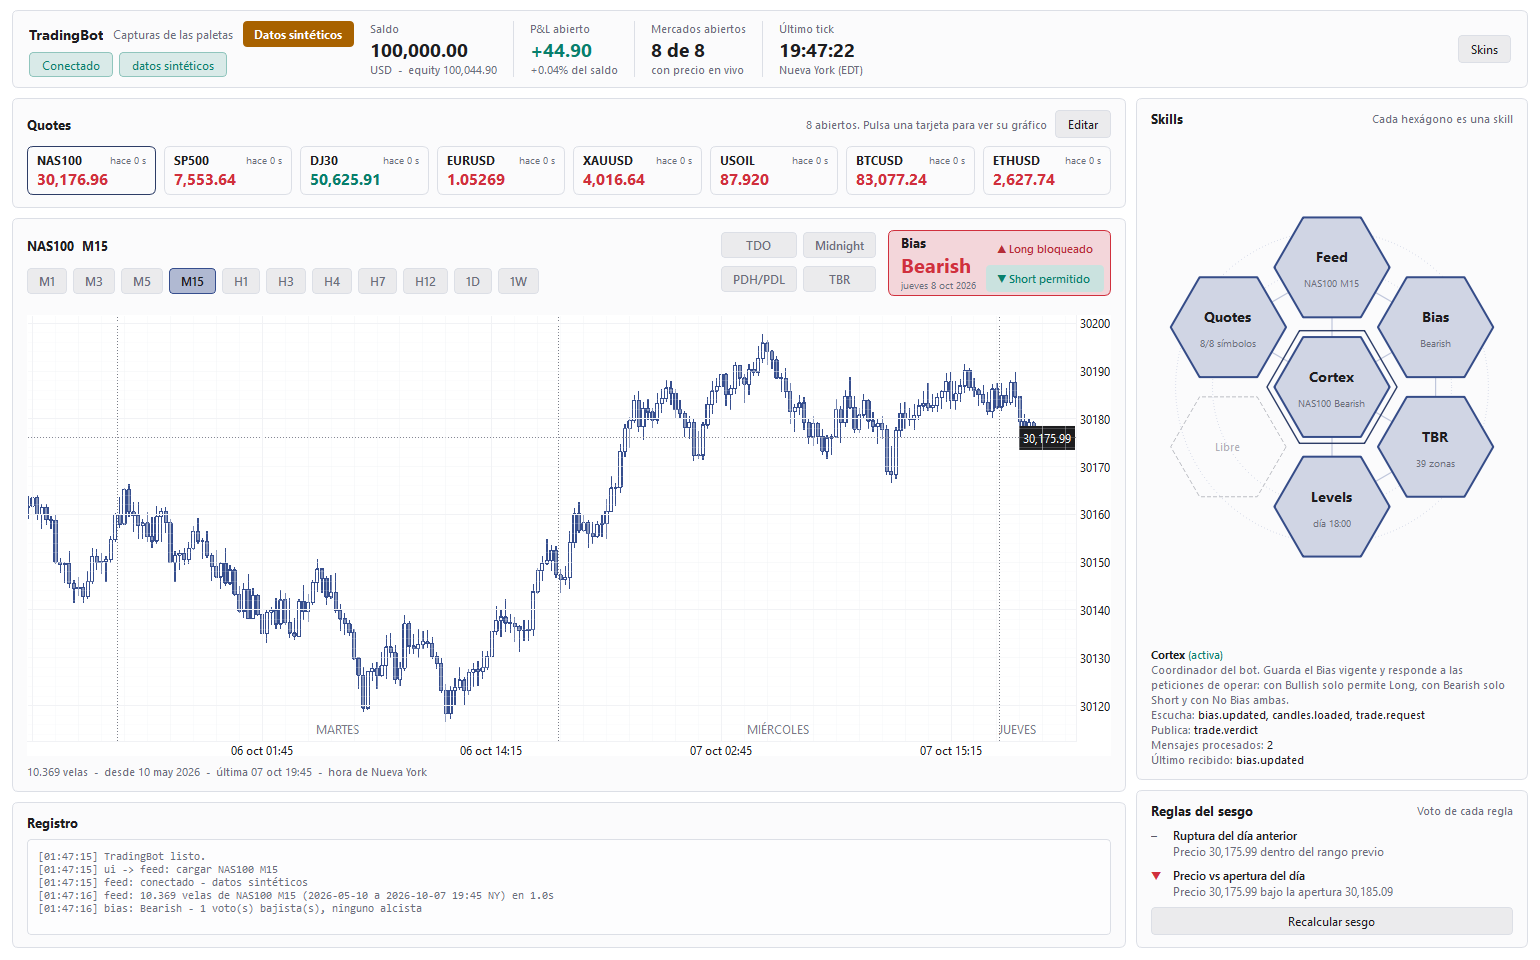
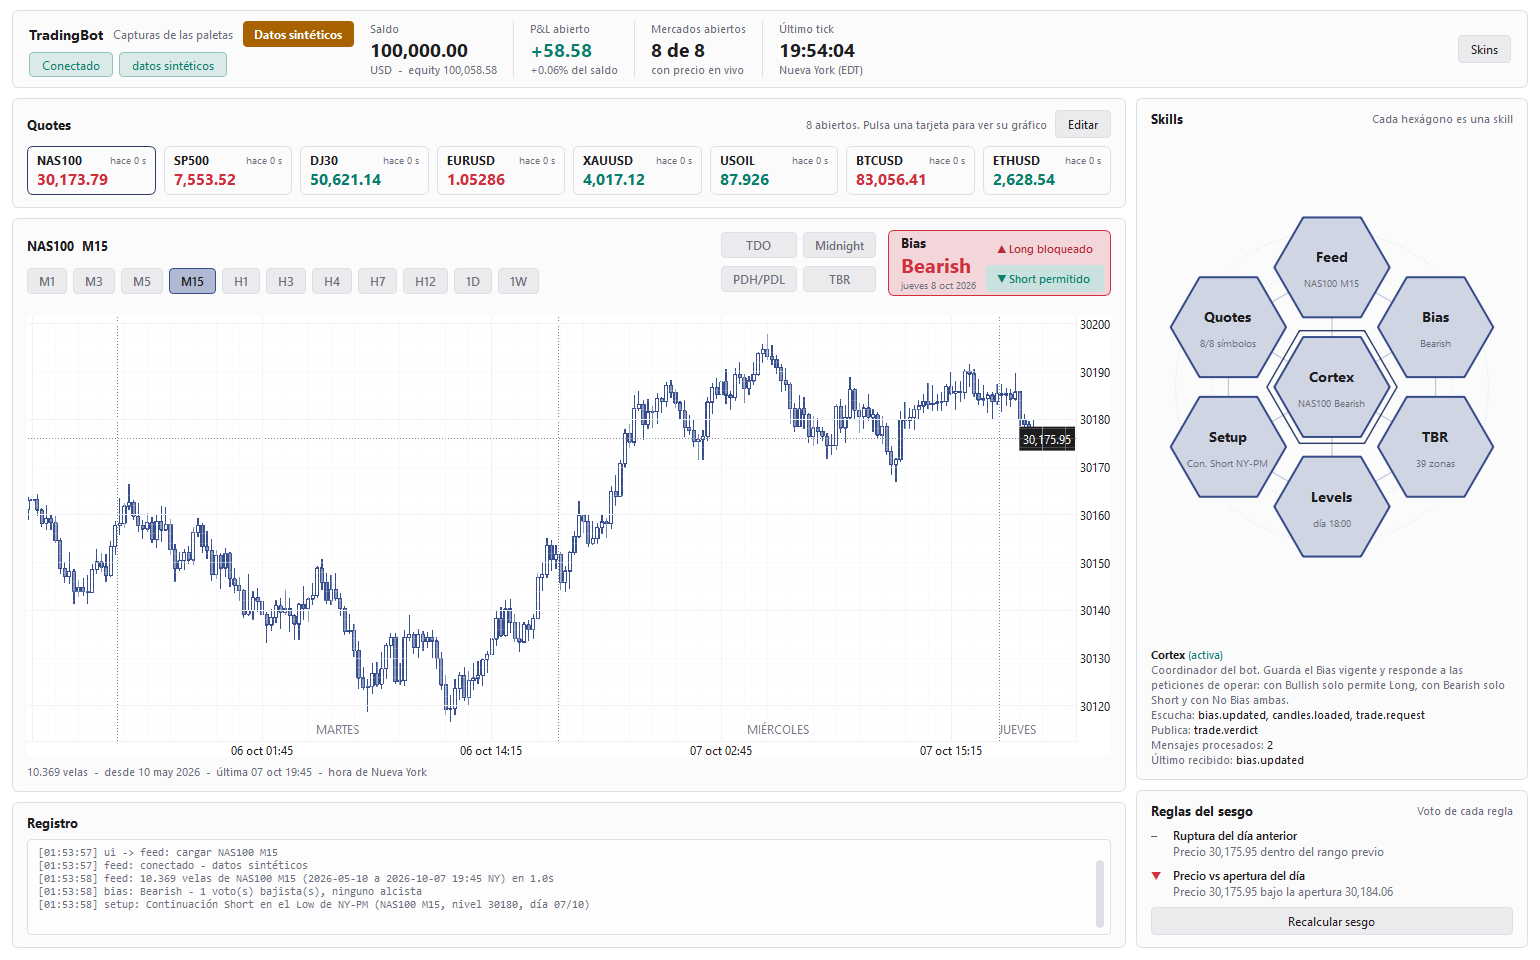
Nueva skill Setup: continuaciones o reversiones tras tomar la liquidez del High/Low de las TBR
Carpeta tradingbot/skills/setup (skill.py, setups.py), hexágono 4, bloque SETUP en
tradingbot.env (SETUP_CONFIRM_BARS, SETUP_ZONES, SETUP_TYPES) y aviso en el Registro.
Solo informa: no envía órdenes.

diff --git a/tradingbot/skills/setup/setups.py b/tradingbot/skills/setup/setups.py
@@ -1,0 +1,90 @@
+"""Setups de la estrategia: tomas de liquidez en el High o el Low de las zonas TBR.
+
+Cuando termina una zona TBR (Asia, London, NY-AM...), su High y su Low quedan como liquidez: encima del High hay stops
+de cortos y debajo del Low, stops de largos. La primera vela que supera uno de esos niveles lo "toma" (la skill TBR ya
+marca cuál es). A partir de esa vela se esperan `confirm_bars` velas (contando la de la toma) y se mira dónde cierra la
+última de ellas:
+
+- Toma del High y cierre POR ENCIMA del High   -> continuación alcista (Long): el precio acepta por encima.
+- Toma del High y cierre DE VUELTA por debajo  -> reversión bajista (Short): barrido de liquidez y rechazo.
+- Toma del Low  y cierre POR DEBAJO del Low    -> continuación bajista (Short).
+- Toma del Low  y cierre DE VUELTA por encima  -> reversión alcista (Long).
+
+Mientras no hayan cerrado las velas de confirmación, el setup está "pendiente" (sin dirección).
+Es la primera versión de la estrategia: aquí se irán añadiendo los filtros (sesgo, TDO, horario...).
+El bot NO envía órdenes: los setups solo se publican e informan.
+"""
+from __future__ import annotations
+
+from dataclasses import dataclass
+from datetime import date
+
+import numpy as np
+
+
+# Valores por defecto (se cambian en tradingbot.env, bloque SETUP)
+DEFAULT_CONFIRM_BARS = 3
+KINDS = ("reversal", "continuation")
+DEFAULT_KINDS = KINDS
+KIND_NAMES = {"reversal": "Reversión", "continuation": "Continuación", "pending": "Pendiente"}
+
+
+@dataclass(frozen=True)
+class Setup:
+    zone: str            # nombre de la zona TBR (p. ej. "NY-AM")
+    zone_key: str        # clave de la zona (p. ej. "NY_AM")
+    day: date            # día (hora de NY) en que empezó la zona
+    side: str            # liquidez tomada: "high" o "low"
+    level: float         # precio del nivel tomado
+    sweep_x: int         # vela (índice) que toma el nivel
+    kind: str            # "reversal", "continuation" o "pending"
+    direction: str | None   # "long", "short" o None mientras está pendiente
+    confirm_x: int | None   # vela que confirma (cierre de la última vela de confirmación)
+
+    @property
+    def label(self) -> str:
+        """Texto corto, p. ej. "Reversión Short en el High de NY-AM"."""
+        where = f"el {'High' if self.side == 'high' else 'Low'} de {self.zone}"
+        if self.direction is None:
+            return f"Toma de liquidez en {where} (pendiente)"
+        return f"{KIND_NAMES[self.kind]} {self.direction.capitalize()} en {where}"
+
+
+def classify(side: str, level: float, close: float) -> tuple[str, str]:
+    """(tipo, dirección) según dónde cierra la vela de confirmación respecto al nivel tomado."""
+    if side == "high":
+        return ("continuation", "long") if close > level else ("reversal", "short")
+    return ("continuation", "short") if close < level else ("reversal", "long")
+
+
+def detect(sessions, close, confirm_bars: int = DEFAULT_CONFIRM_BARS, zones: list[str] | None = None,
+           kinds=DEFAULT_KINDS) -> list[Setup]:
+    """Setups de las zonas TBR ya calculadas (tradingbot.skills.tbr.zones.Session), ordenados por vela de la toma.
+
+    `close` son los cierres de las mismas velas con las que se calcularon las zonas. `zones`: claves de zona a vigilar
+    (None = todas). `kinds`: tipos que interesan; los pendientes siempre se incluyen.
+    """
+    close = np.asarray(close, dtype=float)
+    n = len(close)
+    wanted = {z.upper() for z in zones} if zones else None
+    out: list[Setup] = []
+    for s in sessions:
+        if not s.complete or (wanted is not None and s.zone.key not in wanted):
+            continue
+        for level in s.levels:
+            if level.kind not in ("high", "low") or not level.taken:
+                continue
+            i = int(round(level.x1))
+            if not 0 <= i < n:
+                continue
+            j = i + confirm_bars - 1
+            if j >= n:
+                kind, direction, confirm_x = "pending", None, None
+            else:
+                kind, direction = classify(level.kind, level.price, float(close[j]))
+                confirm_x = j
+                if kind not in kinds:
+                    continue
+            out.append(Setup(s.zone.name, s.zone.key, s.day, level.kind, level.price, i, kind, direction, confirm_x))
+    out.sort(key=lambda st: (st.sweep_x, st.side))
+    return out

diff --git a/tests/test_setup.py b/tests/test_setup.py
@@ -1,0 +1,87 @@
+"""Skill Setup: continuaciones y reversiones tras tomar la liquidez del High / Low de las zonas TBR."""
+import os
+
+os.environ.setdefault("QT_QPA_PLATFORM", "offscreen")
+
+import time
+
+import numpy as np
+import pandas as pd
+
+from tradingbot.envconfig import EnvConfig, parse
+from tradingbot.skills.setup.setups import classify, detect
+from tradingbot.skills.tbr.zones import Zone, compute
+
+from tests.test_tbr import AHEAD, candles
+
+# Zona 10:00-11:00 (velas 0-3): High 105, Low 95. Después, la vela 4 toma el High (106).
+HIGHS = [101, 105, 102, 101, 106, 104, 103, 102]
+LOWS = [99, 98, 95, 99, 101, 100, 99, 98]
+
+
+def sessions():
+    ts, high, low = candles(10, 8, highs=HIGHS, lows=LOWS)
+    return compute(ts, high, low, [Zone("NY_AM", "NY-AM", 600, 660, "#00C853")], AHEAD, 15, days=1)
+
+
+def test_clasificacion_segun_el_cierre_de_confirmacion():
+    assert classify("high", 105, 106) == ("continuation", "long")
+    assert classify("high", 105, 104) == ("reversal", "short")
+    assert classify("low", 95, 94) == ("continuation", "short")
+    assert classify("low", 95, 96) == ("reversal", "long")
+
+
+def test_reversion_tras_barrer_el_high():
+    close = [100, 104, 100, 100, 105.5, 103, 102, 101]     # toma en la 4; la 6 (3.ª vela) cierra dentro
+    [s] = detect(sessions(), close, confirm_bars=3)
+    assert (s.side, s.level, s.sweep_x, s.confirm_x) == ("high", 105, 4, 6)
+    assert (s.kind, s.direction) == ("reversal", "short")
+    assert s.label == "Reversión Short en el High de NY-AM"
+
+
+def test_continuacion_y_pendiente():
+    close = [100, 104, 100, 100, 105.5, 105.8, 106, 101]
+    [s] = detect(sessions(), close, confirm_bars=2)         # la 5 cierra por encima de 105
+    assert (s.kind, s.direction, s.confirm_x) == ("continuation", "long", 5)
+    [p] = detect(sessions(), close, confirm_bars=5)         # aún no han cerrado 5 velas desde la toma
+    assert (p.kind, p.direction) == ("pending", None) and "pendiente" in p.label
+
+
+def test_filtros_de_zonas_y_tipos():
+    close = [100, 104, 100, 100, 105.5, 103, 102, 101]
+    assert detect(sessions(), close, 3, zones=["LONDON"]) == []
+    assert detect(sessions(), close, 3, zones=["ny_am"]) != []
+    assert detect(sessions(), close, 3, kinds=("continuation",)) == []
+
+
+def run_skill(env_text):
+    from tradingbot.core import EventBus, Services, SkillManager
+    import tradingbot.skills  # noqa: F401
+    bus, events = EventBus(), []
+    bus.subscribe("t", "setup.updated", events.append)
+    manager = SkillManager(bus, Services(None, None, {"app": {}}, EnvConfig(parse(env_text))),
+                           [{"type": "tbr"}, {"type": "setup"}])
+    manager.start()
+    ts, high, low = candles(10, 8, highs=HIGHS, lows=LOWS)
+    df = pd.DataFrame({"ts": ts, "high": high, "low": low,
+                       "close": np.array([100, 104, 100, 100, 105.5, 103, 102, 101], dtype=float)})
+    bus.publish("candles.loaded", {"symbol": "EURUSD", "timeframe": "15m", "df": df}, source="feed")
+    deadline = time.time() + 3
+    while not events and time.time() < deadline:
+        time.sleep(0.02)
+    manager.stop()
+    return manager.skills["setup"], events
+
+
+def test_la_skill_publica_los_setups_de_las_zonas_tbr():
+    skill, events = run_skill("TBR_ZONES=ny_am\nTBR_NY_AM_HOURS=10:00-11:00\nTBR_DAYS=1\n")
+    p = events[-1].payload
+    assert p["symbol"] == "EURUSD" and p["confirm_bars"] == 3
+    assert p["last"].label == "Reversión Short en el High de NY-AM"
+
+
+def test_la_skill_rechaza_valores_no_validos():
+    skill, events = run_skill("SETUP_CONFIRM_BARS=0\n")
+    assert skill.state.value == "error" and "SETUP_CONFIRM_BARS" in skill.note and not events
+    skill, events = run_skill("SETUP_TYPES=breakout\n")
+    assert skill.state.value == "error" and "SETUP_TYPES" in skill.note

diff --git a/tradingbot/skills/setup/skill.py b/tradingbot/skills/setup/skill.py
@@ -1,0 +1,67 @@
+"""Skill Setup: la estrategia de trading sobre las tomas de liquidez de las zonas TBR."""
+from __future__ import annotations
+
+from ...core import Event, Skill, register_skill
+from .setups import DEFAULT_CONFIRM_BARS, DEFAULT_KINDS, KINDS, detect
+
+
+@register_skill("setup")
+class SetupSkill(Skill):
+    title = "Setup"
+    description = ("La estrategia de trading: cuando el precio toma la liquidez del High o del Low de una zona TBR, "
+                   "decide si es una continuación (cierra más allá del nivel) o una reversión (cierra de vuelta "
+                   "dentro). Solo informa: no envía órdenes.")
+    subscribes = ("candles.loaded", "tbr.updated")
+    publishes = ("setup.updated",)
+    slot = 4
+
+    def on_start(self) -> None:
+        self.error = "Configuración SETUP no válida"   # con la configuración mal, el hexágono queda en rojo con el motivo
+        self._candles: dict | None = None
+        self._tbr: dict | None = None
+        try:
+            self._load_settings()
+        except ValueError as exc:
+            self.error = str(exc)
+            raise
+        self.error = ""
+        self.set_caption("esperando TBR")
+
+    def _load_settings(self) -> None:
+        # tradingbot.env, bloque SETUP
+        self.confirm_bars = self.settings.get_int("CONFIRM_BARS", DEFAULT_CONFIRM_BARS)
+        if self.confirm_bars < 1:
+            raise ValueError(f"SETUP_CONFIRM_BARS={self.confirm_bars} debe ser 1 o más.")
+        self.zones = [z.upper() for z in self.settings.get_list("ZONES", [])] or None   # vacío: todas las zonas TBR
+        self.kinds = tuple(k.lower() for k in self.settings.get_list("TYPES", list(DEFAULT_KINDS)))
+        unknown = [k for k in self.kinds if k not in KINDS]
+        if unknown or not self.kinds:
+            raise ValueError(f"SETUP_TYPES={', '.join(self.kinds) or 'vacío'}: usa reversal, continuation o ambos.")
+
+    def handle(self, event: Event) -> None:
+        if self.error:
+            raise ValueError(self.error)
+        if event.topic == "candles.loaded":
+            self._candles = event.payload
+        else:
+            self._tbr = event.payload
+        c, t = self._candles, self._tbr
+        if c is None or t is None or (c["symbol"], c["timeframe"]) != (t["symbol"], t["timeframe"]):
+            return                                      # aún no han llegado las zonas de estas velas
+        self.update()
+
+    def update(self) -> None:
+        c, t = self._candles, self._tbr
+        setups = []
+        if t["available"]:
+            setups = detect(t["sessions"], c["df"]["close"].to_numpy(), self.confirm_bars, self.zones, self.kinds)
+        confirmed = [s for s in setups if s.direction is not None]
+        last = confirmed[-1] if confirmed else None
+        if not t["available"]:
+            self.set_caption("sin TBR")
+        elif last is None:
+            self.set_caption("sin setups")
+        else:
+            self.set_caption(f"{last.kind[:3].title()}. {last.direction.capitalize()} {last.zone}")
+        self.publish("setup.updated", {"symbol": c["symbol"], "timeframe": c["timeframe"], "setups": setups,
+                                       "last": last, "confirm_bars": self.confirm_bars})

diff --git a/tradingbot/ui/main_window.py b/tradingbot/ui/main_window.py
@@ -86,7 +86,7 @@ class MainWindow(QMainWindow):
             "feed.connected": self._on_connected, "feed.progress": self._on_progress,
             "feed.failed": self._on_failed, "candles.loaded": self._on_candles,
             "quotes.updated": self._on_quotes, "bias.updated": self._on_bias, "tbr.updated": self._on_tbr,
-            "levels.updated": self._on_day_levels,
+            "levels.updated": self._on_day_levels, "setup.updated": self._on_setup,
             "trade.verdict": self._on_verdict, "skill.state": self._on_skill_state,
             "skill.error": self._on_skill_error,
         }
@@ -534,6 +534,14 @@ class MainWindow(QMainWindow):
             btn.setEnabled(p["available"])
             btn.setToolTip(btn.property("tip") if p["available"] else
                            "Los niveles del día no se dibujan con velas diarias o semanales (LEVELS_MAX_TF_MINUTES).")
+
+    def _on_setup(self, p: dict) -> None:
+        last = p["last"]
+        key = (p["symbol"], last.sweep_x, last.side) if last else None
+        if last and key != getattr(self, "_last_setup", None):   # solo cuando aparece uno nuevo
+            self.log(f"setup: {last.label} ({p['symbol']} {display_label(p['timeframe'])}, "
+                     f"nivel {last.level:g}, día {last.day:%d/%m})")
+        self._last_setup = key
 
     def _on_verdict(self, p: dict) -> None:
         if str(p.get("request_id", "")).startswith("ui-"):

diff --git a/tests/test_appconfig.py b/tests/test_appconfig.py
@@ -106,7 +106,8 @@ def test_el_tradingbot_env_del_proyecto_documenta_cada_clave_con_sus_valores_por
                 "TBR_DAYS", "TBR_OPACITY", "TBR_LINE_OPACITY", "TBR_MAX_TF_MINUTES", "TBR_ZONES", "TBR_ASIA_HOURS", "TBR_NY_PM_COLOR",
                 "LEVELS_SHOW_TDO", "LEVELS_SHOW_MIDNIGHT", "LEVELS_SHOW_PDHL", "LEVELS_SEPARATORS",
                 "LEVELS_DAYS", "LEVELS_MAX_TF_MINUTES", "LEVELS_TDO_COLOR", "LEVELS_SEPARATOR_COLOR",
-                "LEVELS_DAY_START", "LEVELS_INDEX_DAY_START", "LEVELS_US_INDICES"):
+                "LEVELS_DAY_START", "LEVELS_INDEX_DAY_START", "LEVELS_US_INDICES",
+                "SETUP_CONFIRM_BARS", "SETUP_ZONES", "SETUP_TYPES"):
         assert key in keys, f"falta {key} en tradingbot.env"
     for i, line in enumerate(lines):                       # cada grupo de claves, con su comentario encima
         if re.match(r"[A-Z]", line):

diff --git a/tradingbot/skills/_plantilla/skill.py b/tradingbot/skills/_plantilla/skill.py
@@ -27,6 +27,7 @@ Temas que ya existen (payload entre llaves):
   clock.offset {server_offset, offset_source}  desfase del servidor, al cambiar (quotes)
   tbr.updated {symbol, timeframe, sessions, available, ...}  zonas TBR y niveles (tbr)
   levels.updated {symbol, timeframe, lines, separators, ...}  TDO, Midnight, PDH/PDL y días (levels)
+  setup.updated {symbol, timeframe, setups, last, confirm_bars}  tomas de liquidez de las TBR (setup)
   bias.recalc {}                     pide recalcular el sesgo     (ui -> bias)
   bias.updated {result, symbol, timeframe}                        (bias)
   trade.request {request_id, direction}   "¿puedo operar?"        (cualquiera -> cortex)

diff --git a/tests/test_core.py b/tests/test_core.py
@@ -135,7 +135,7 @@ def test_cada_skill_tiene_su_carpeta():
     from pathlib import Path
     from tradingbot.core.skill import SKILL_REGISTRY
     root = Path(tradingbot.skills.__file__).parent
-    assert {"feed", "quotes", "bias", "cortex", "tbr", "levels"} <= set(SKILL_REGISTRY)
+    assert {"feed", "quotes", "bias", "cortex", "tbr", "levels", "setup"} <= set(SKILL_REGISTRY)
     for key, cls in SKILL_REGISTRY.items():
         if not cls.__module__.startswith("tradingbot."):
             continue                                    # skills de prueba definidas dentro de los tests

diff --git a/tradingbot/config.py b/tradingbot/config.py
@@ -21,7 +21,7 @@ DEFAULT_WATCHLIST = ("NAS100", "SP500", "DJ30", "EURUSD", "XAUUSD", "USOIL", "BT
 
 
 DEFAULT_SKILLS = ({"type": "cortex"}, {"type": "feed"}, {"type": "bias"}, {"type": "tbr"}, {"type": "levels"},
-                  {"type": "quotes"})
+                  {"type": "setup"}, {"type": "quotes"})
 
 # Valores por defecto de tradingbot.env
 DEFAULT_SYMBOL = "EURUSD"                                     # FEED_SYMBOL

diff --git a/tradingbot/skills/setup/__init__.py b/tradingbot/skills/setup/__init__.py
@@ -1,0 +1,6 @@
+"""Skill Setup: la estrategia de trading. Continuaciones o reversiones donde el precio toma la liquidez del High o del
+Low de una zona TBR.
+
+- skill.py   la skill (hexágono 4)
+- setups.py  detección de las tomas de liquidez y su clasificación (continuación / reversión)
+"""

diff --git a/README.md b/README.md
@@ -144,6 +144,10 @@ en bloques comentados, uno por skill o parte del bot. Cada clave empieza por el 
 | `LEVELS_SEPARATORS` | `true` | Líneas verticales punteadas entre días, con su nombre centrado. |
 | `LEVELS_DAYS` | `10` | Días de trading hacia atrás que llevan niveles. |
 | `LEVELS_MAX_TF_MINUTES` | `720` | Timeframe máximo (en minutos) con el que se dibujan (hasta H12). |
+| **SETUP** — la estrategia (tomas de liquidez de las zonas TBR) | | |
+| `SETUP_CONFIRM_BARS` | `3` | Velas de confirmación tras la toma del nivel, contando la que lo toma. |
+| `SETUP_ZONES` | vacío | Claves de las zonas TBR que se vigilan (p. ej. `LONDON, NY_AM`). Vacío: todas. |
+| `SETUP_TYPES` | `reversal, continuation` | Tipos de setup que interesan. |
 | `LEVELS_TDO_COLOR` / `_MIDNIGHT_COLOR` / `_PDHL_COLOR` / `_SEPARATOR_COLOR` | `#787B86` / `#FF9800` / `#2962FF` / `#787B86` | Colores `#RRGGBB`. |
 | **UI** — interfaz | | |
 | `UI_THEME` | `matrix` | Paleta de arranque: `matrix`, `negro`, `pizarra` o `blanco`. |
@@ -289,12 +293,14 @@ la línea entre sus hexágonos se ilumina. Pulsa un hexágono para ver qué escu
 | `bias` | 1 | Evalúa las reglas del sesgo (`candles.loaded` -> `bias.updated`). |
 | `tbr` | 2 | Zonas horarias TBR y sus niveles (`candles.loaded` + `clock.offset` -> `tbr.updated`). Lee el bloque TBR. |
 | `levels` | 3 | TDO, Midnight, PDH/PDL y separadores de día (`candles.loaded` + `clock.offset` -> `levels.updated`). Lee el bloque LEVELS. |
+| `setup` | 4 | La estrategia: continuaciones o reversiones tras tomar la liquidez del High o el Low de una zona TBR (`candles.loaded` + `tbr.updated` -> `setup.updated`). Lee el bloque SETUP. Solo informa: no envía órdenes. |
 | `quotes` | 5 | Cotizaciones de la watchlist y cifras de la cuenta cada `QUOTES_INTERVAL` segundos (`quotes.updated`). |
 
-El hueco del anillo 4 aparece como *Libre*. También hay tres satélites pequeños (`aux1`, `aux2`, `aux3`).
+El anillo está completo; quedan libres los tres satélites pequeños (`aux1`, `aux2`, `aux3`).
 Estados: gris azulado en espera, azul activa, brillante trabajando, rojo con error (las demás siguen funcionando).
 
-Flujo actual: `ui -> feed.load -> feed -> candles.loaded -> bias + tbr + levels + cortex -> bias.updated -> cortex`.
+Flujo actual: `ui -> feed.load -> feed -> candles.loaded -> bias + tbr + levels + setup + cortex -> bias.updated -> cortex`;
+`tbr -> tbr.updated -> setup -> setup.updated` (los setups nuevos se anotan en el Registro).
 Quotes publica `clock.offset` cuando cambia el desfase del servidor, y `tbr` y `levels` recolocan lo que depende de la hora de NY.
 Pulsa **Long** o **Short** en la tarjeta del Bias para ver a Cortex contestar con `trade.verdict`.
 
@@ -336,9 +342,10 @@ tradingbot/
     cortex/          coordinador y filtro de operativa: skill.py
     tbr/             zonas horarias TBR: skill.py, zones.py
     levels/          TDO, Midnight, PDH / PDL y separadores de día: skill.py, daylevels.py
+    setup/           la estrategia (tomas de liquidez de las zonas TBR): skill.py, setups.py
     _plantilla/      carpeta a copiar para crear una skill nueva
   ui/                ventana, panel de hexágonos, gráfico de velas, tarjetas, tema
-tradingbot.env       configuración de arranque y de cada skill (APP, FEED, QUOTES, BIAS, TBR, LEVELS, UI)
+tradingbot.env       configuración de arranque y de cada skill (APP, FEED, QUOTES, BIAS, TBR, LEVELS, SETUP, UI)
 config.toml          watchlist inicial, colores sueltos y disposición de las skills
 scripts/             run.ps1 (arrancar) y sync.ps1 (sincronizar con git)
 tests/               pruebas (uv run pytest)
